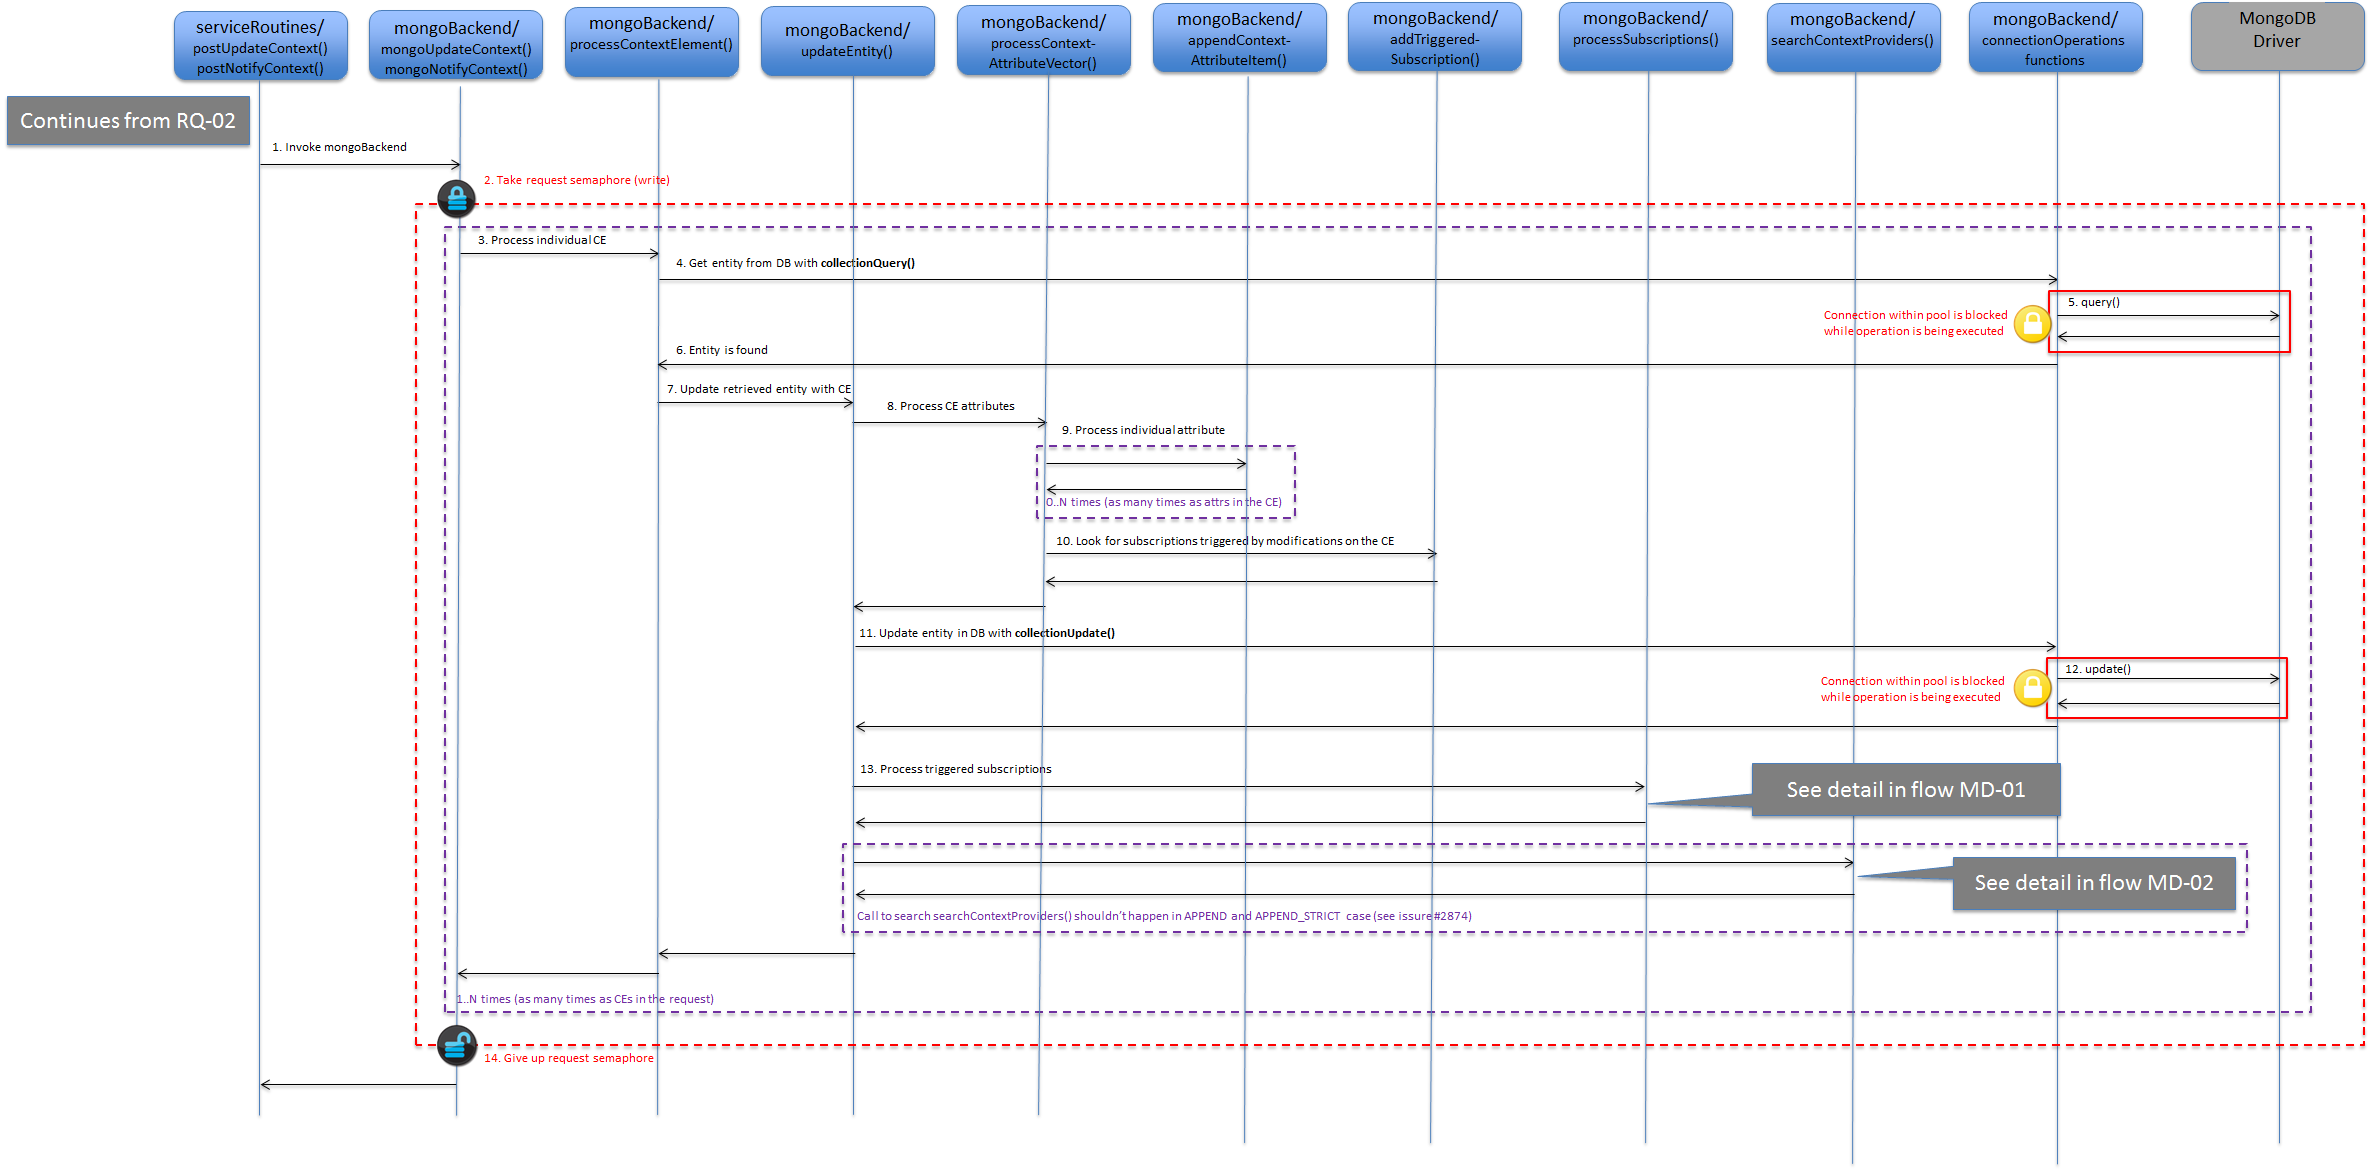
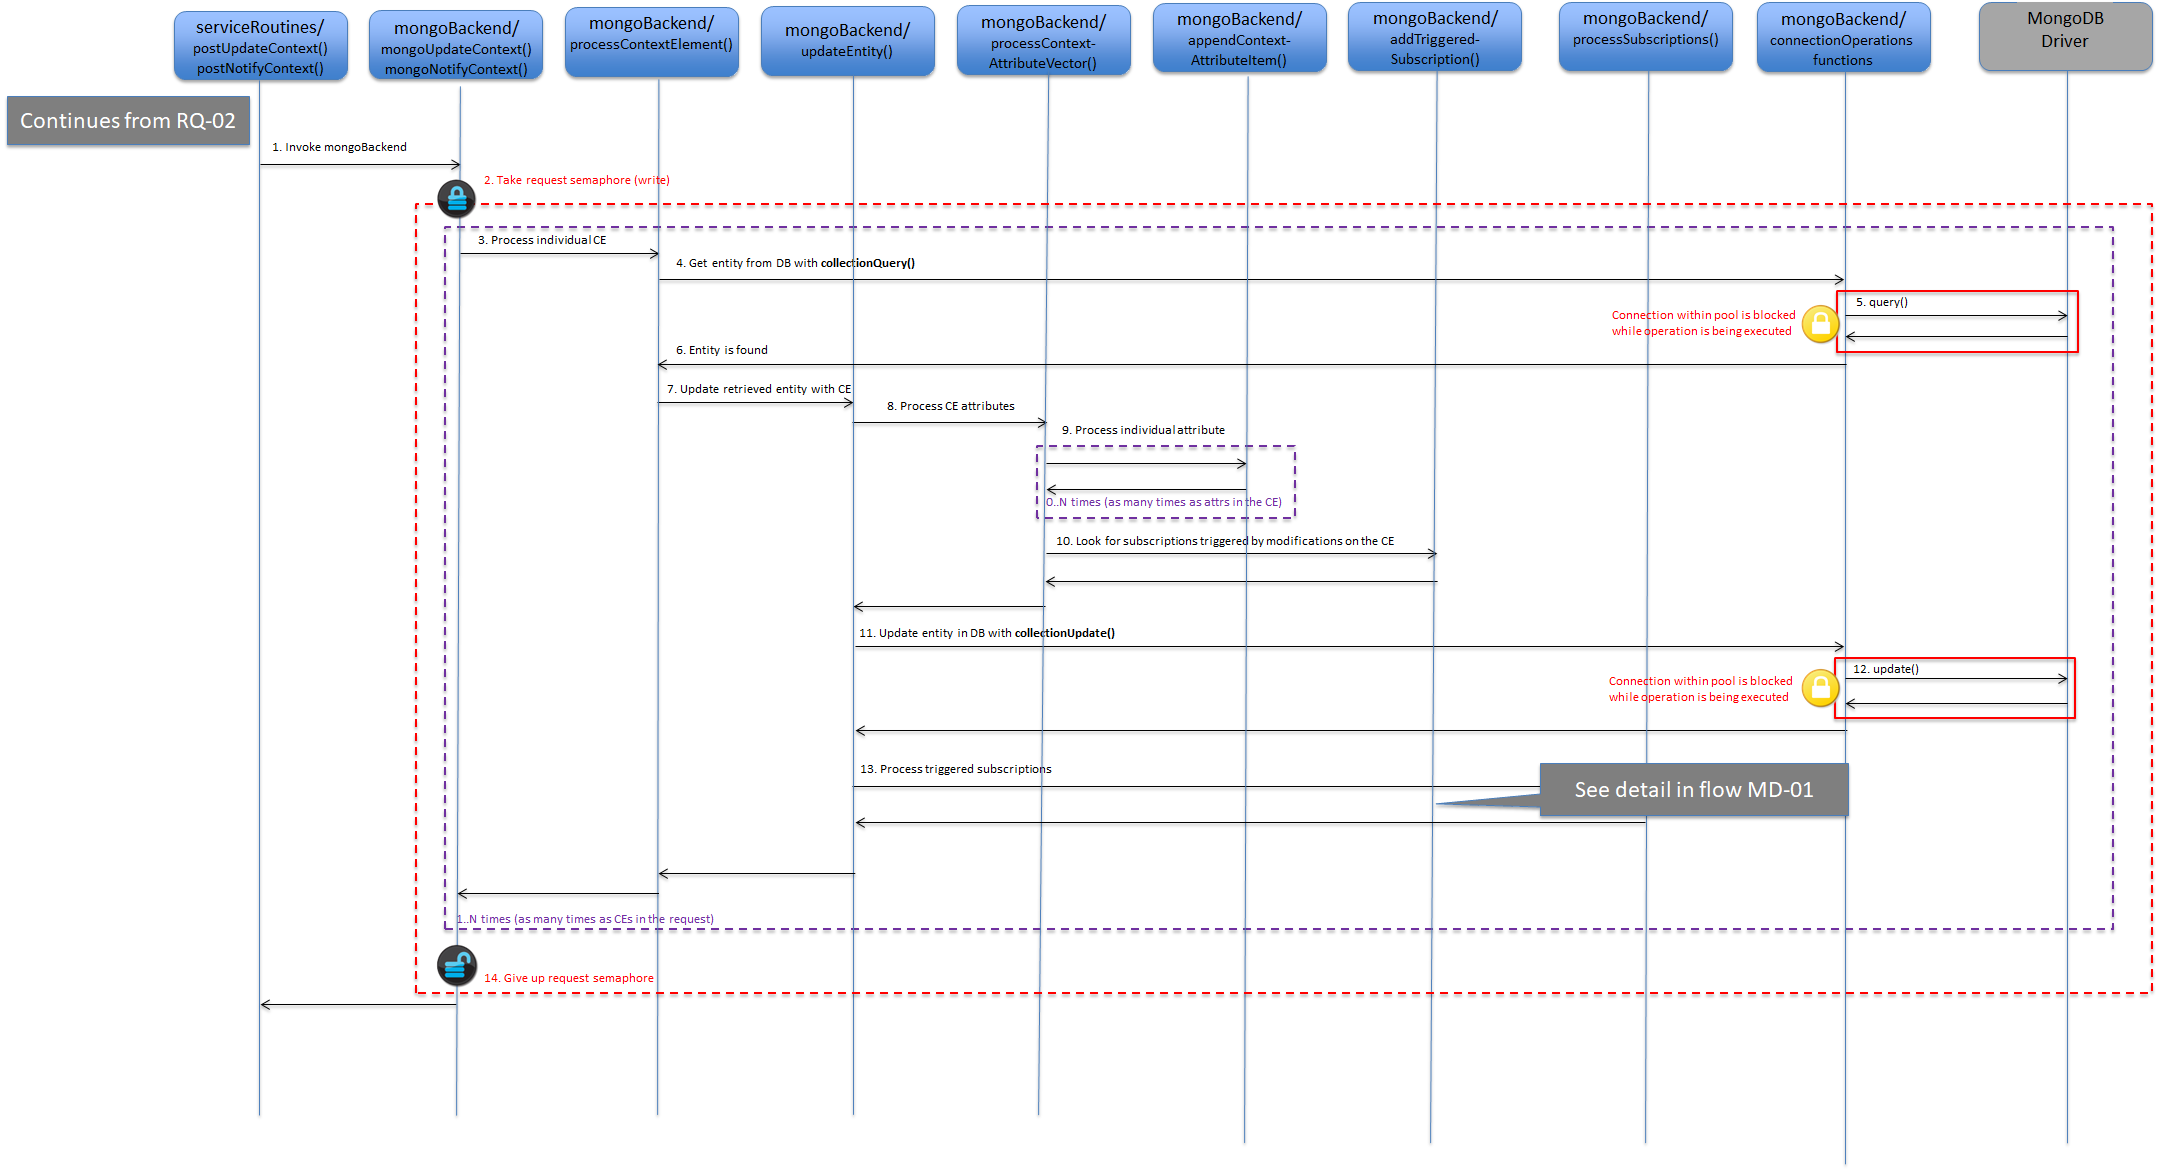
FIX flow diagrams in devel manual with regards issue #2874

diff --git a/doc/manuals/devel/mongoBackend.md b/doc/manuals/devel/mongoBackend.md
@@ -126,7 +126,6 @@ _MB-03: mongoUpdate APPEND/APPEND_STRICT case with existing entity_
 
 * When the control is returned to `updateEntity()`, `collectionUpdate()` in the `connectionOperations` module is invoked to actually update the entity in the database (steps 11 and 12).
 * The next step is to send the notifications triggered by the update operation, which is done by `processSubscriptions()` (step 13). More details on this in (diagram [MD-01](#flow-md-01)).
-* The current version of Orion (as of May 2017) calls `searchContextProviders()`, like in **Case 1**. This shouldn't be done in the "APPEND"/"APPEND_STRICT" cases, as these types of requests are always processed locally and should **not** be forwarded to context providers. The fix is pending (see [this issue](https://github.com/telefonicaid/fiware-orion/issues/2874)).
 * If the request semaphore was taken in step 2, then it is released before returning (step 14).
 
 Case 4: action type is "APPEND" or "APPEND_STRICT" and the entity is not found.
@@ -161,7 +160,6 @@ _MB-05: mongoUpdate DELETE not remove entity_
 * Once the processing of the attributes is done, `processContextAttributeVector()` calls `addTriggeredSubscriptions()` in order to detect subscriptions triggered by the update operation (step 10). More details on this later.
 * When the control is returned to `updateEntity()`, `collectionUpdate()` in the `connectionOperations` module is invoked to update the entity in the database (steps 11 and 12).
 * The next step is to send notifications triggered by the update operation, by invoking `processSubscriptions()` (step 13). More details on this in (diagram [MD-01](#flow-md-01)).
-* The current version of Orion (as of May 2017) calls `searchContextProviders()`, like in **Case 1**. This shouldn't be done in the "DELETE" case, as this type of requests are always processed locally and should **not** be forwarded to context providers. The fix is pending  (see [this issue](https://github.com/telefonicaid/fiware-orion/issues/2874)).
 * If the request semaphore was taken in step 2, then it is released before returning (step 14). 
 
 Case 6: action type is "DELETE" to remove an entity
